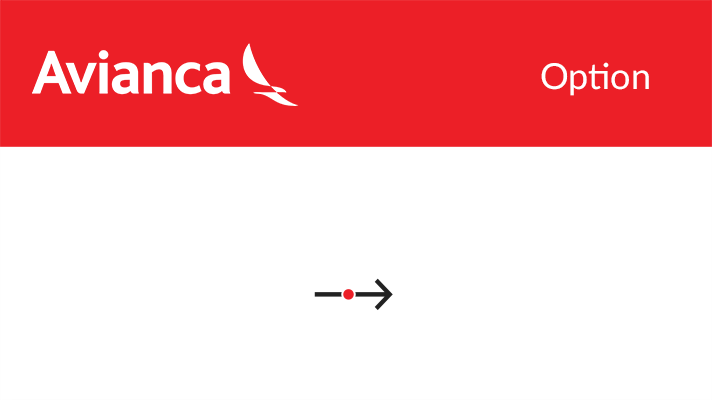
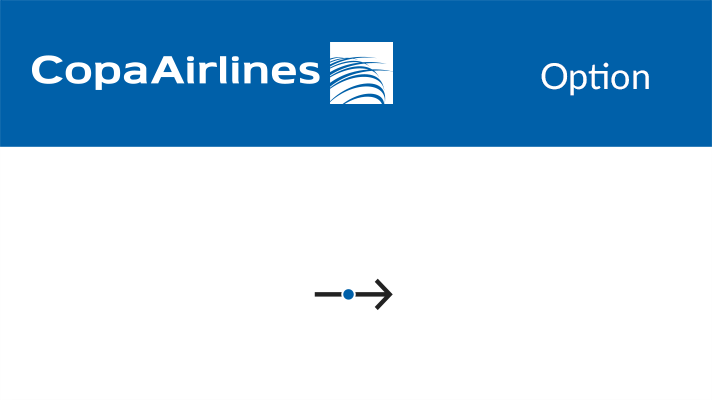
Copa Airlines Template Added

diff --git a/public/css/style.css b/public/css/style.css
@@ -11,8 +11,8 @@ body {
 	font-size: 16px;
 }
 .navbar-inverse {
-    background-color: #db0809;
-    border-color: #db0809;
+    background-color: #0060a9;
+    border-color: #0060a9;
 }
 .navbar-brand {
     padding: 7px 0px 5px;
@@ -92,13 +92,13 @@ h3 {
     margin: 10px auto;
 }
 .red{
-	color: #db0809;
+	color: #0060a9;
 }
 a.red, a.red:active{
-	color: #db0809;
+	color: #0060a9;
 }
 a.red:hover{
-	color: #99040a;
+	color: #004477;
 }
 .bold{
 	font-weight: bold;

diff --git a/templates/confirmation.php b/templates/confirmation.php
@@ -20,8 +20,8 @@ $AwsHost = 'http://bot.airportdigital.com/AirlineBotService/public/';
     <title>Booking Confirmation</title>
 
     <!-- Bootstrap core CSS -->
-    <link href="css/bootstrap.min.css" rel="stylesheet">
-    <link href="css/style.css" rel="stylesheet">
+    <link href="./css/bootstrap.min.css" rel="stylesheet">
+    <link href="./css/style.css" rel="stylesheet">
     <link href="https://fonts.googleapis.com/css?family=Lato:400,300,700,600" rel="stylesheet" type='text/css'>
   </head>
 
@@ -36,7 +36,7 @@ $AwsHost = 'http://bot.airportdigital.com/AirlineBotService/public/';
             <span class="icon-bar"></span>
             <span class="icon-bar"></span>
           </button-->
-          <a class="navbar-brand" href="#"><img src="<?php echo $imagesPath ?>logo-avianca.png"/></a>
+          <a class="navbar-brand" href="#"><img src="./check-out-images/logo-copa.png"/></a>
         </div>
         <div id="navbar" class="navbar-collapse collapse">
         </div><!--/.navbar-collapse -->
@@ -54,10 +54,31 @@ $AwsHost = 'http://bot.airportdigital.com/AirlineBotService/public/';
           <span class="red">juanrt@gmail.com.</span></p>
        </div>
       </div>
-      <div class="row">
-            <a type="button" class="btn btn-default bt-lg btn-blue" href="https://www.messenger.com/t/280583632340336"><img src="<?php echo $imagesPath ?>messenger.png">Back to Messenger</a>
+      <!-- <div class="row">
+            <a type="button" class="btn btn-default bt-lg btn-blue" href="https://www.messenger.com/t/280583632340336"><img src="./check-out-images/messenger.png">Back to Messenger</a>
+            
       </div>
+        <script>
 
+        window.fbAsyncInit = function() {
+          FB.init({
+            appId: "APP_ID",
+            xfbml: true,
+            version: "v2.6"
+          });
+
+        };
+
+        (function(d, s, id){
+           var js, fjs = d.getElementsByTagName(s)[0];
+           if (d.getElementById(id)) { return; }
+           js = d.createElement(s); js.id = id;
+           js.src = "//connect.facebook.net/en_US/sdk.js";
+           fjs.parentNode.insertBefore(js, fjs);
+        }(document, 'script', 'facebook-jssdk'));
+
+  </script> -->
+    
 
       <footer>
         <p>&copy; 2016 AirportDigital</p>

diff --git a/templates/checkout.php b/templates/checkout.php
@@ -22,7 +22,7 @@ $AwsHost = 'http://bot.airportdigital.com/AirlineBotService/public/';
 
     <!-- Bootstrap core CSS -->
     <link href="<?php echo $AwsHost ?>css/bootstrap.min.css" rel="stylesheet">
-    <link href="<?php echo $AwsHost ?>css/style.css" rel="stylesheet">
+    <link href="../../../css/style.css" rel="stylesheet">
     <link href="https://fonts.googleapis.com/css?family=Lato:400,300,700,600" rel="stylesheet" type='text/css'>
   </head>
 
@@ -37,7 +37,7 @@ $AwsHost = 'http://bot.airportdigital.com/AirlineBotService/public/';
             <span class="icon-bar"></span>
             <span class="icon-bar"></span>
           </button-->
-          <a class="navbar-brand" href="#"><img src="<?php echo $imagesPath ?>logo-avianca.png"/></a>
+          <a class="navbar-brand" href="#"><img src="../../../check-out-images/logo-copa.png"/></a>
         </div>
         <div id="navbar" class="navbar-collapse collapse">
         </div><!--/.navbar-collapse -->
@@ -46,7 +46,7 @@ $AwsHost = 'http://bot.airportdigital.com/AirlineBotService/public/';
     <div class="container">
       <div class="row header">
             <h1>Traveller Info</h1>
-            <a class="red passport"><img src="<?php echo $imagesPath ?>icon-passport.png"> Scan Passport</a>
+            <a class="red passport"><img src="../../../check-out-images/icon-passport.png"> Scan Passport</a>
         </div>
       <div class="row">
         <div class="col-md-12 inner-content traveller">

diff --git a/templates/review-purchase.php b/templates/review-purchase.php
@@ -19,8 +19,8 @@ $AwsHost = 'http://bot.airportdigital.com/AirlineBotService/public/';
     <title>Review and Purchase</title>
 
     <!-- Bootstrap core CSS -->
-    <link href="css/bootstrap.min.css" rel="stylesheet">
-    <link href="css/style.css" rel="stylesheet">
+    <link href="./css/bootstrap.min.css" rel="stylesheet">
+    <link href="./css/style.css" rel="stylesheet">
     <link href="https://fonts.googleapis.com/css?family=Lato:400,300,700,600" rel="stylesheet" type='text/css'>
   </head>
 
@@ -35,7 +35,7 @@ $AwsHost = 'http://bot.airportdigital.com/AirlineBotService/public/';
             <span class="icon-bar"></span>
             <span class="icon-bar"></span>
           </button-->
-          <a class="navbar-brand" href="#"><img src="<?php echo $imagesPath ?>logo-avianca.png"/></a>
+          <a class="navbar-brand" href="#"><img src="./check-out-images/logo-copa.png"/></a>
         </div>
         <div id="navbar" class="navbar-collapse collapse">
         </div><!--/.navbar-collapse -->
